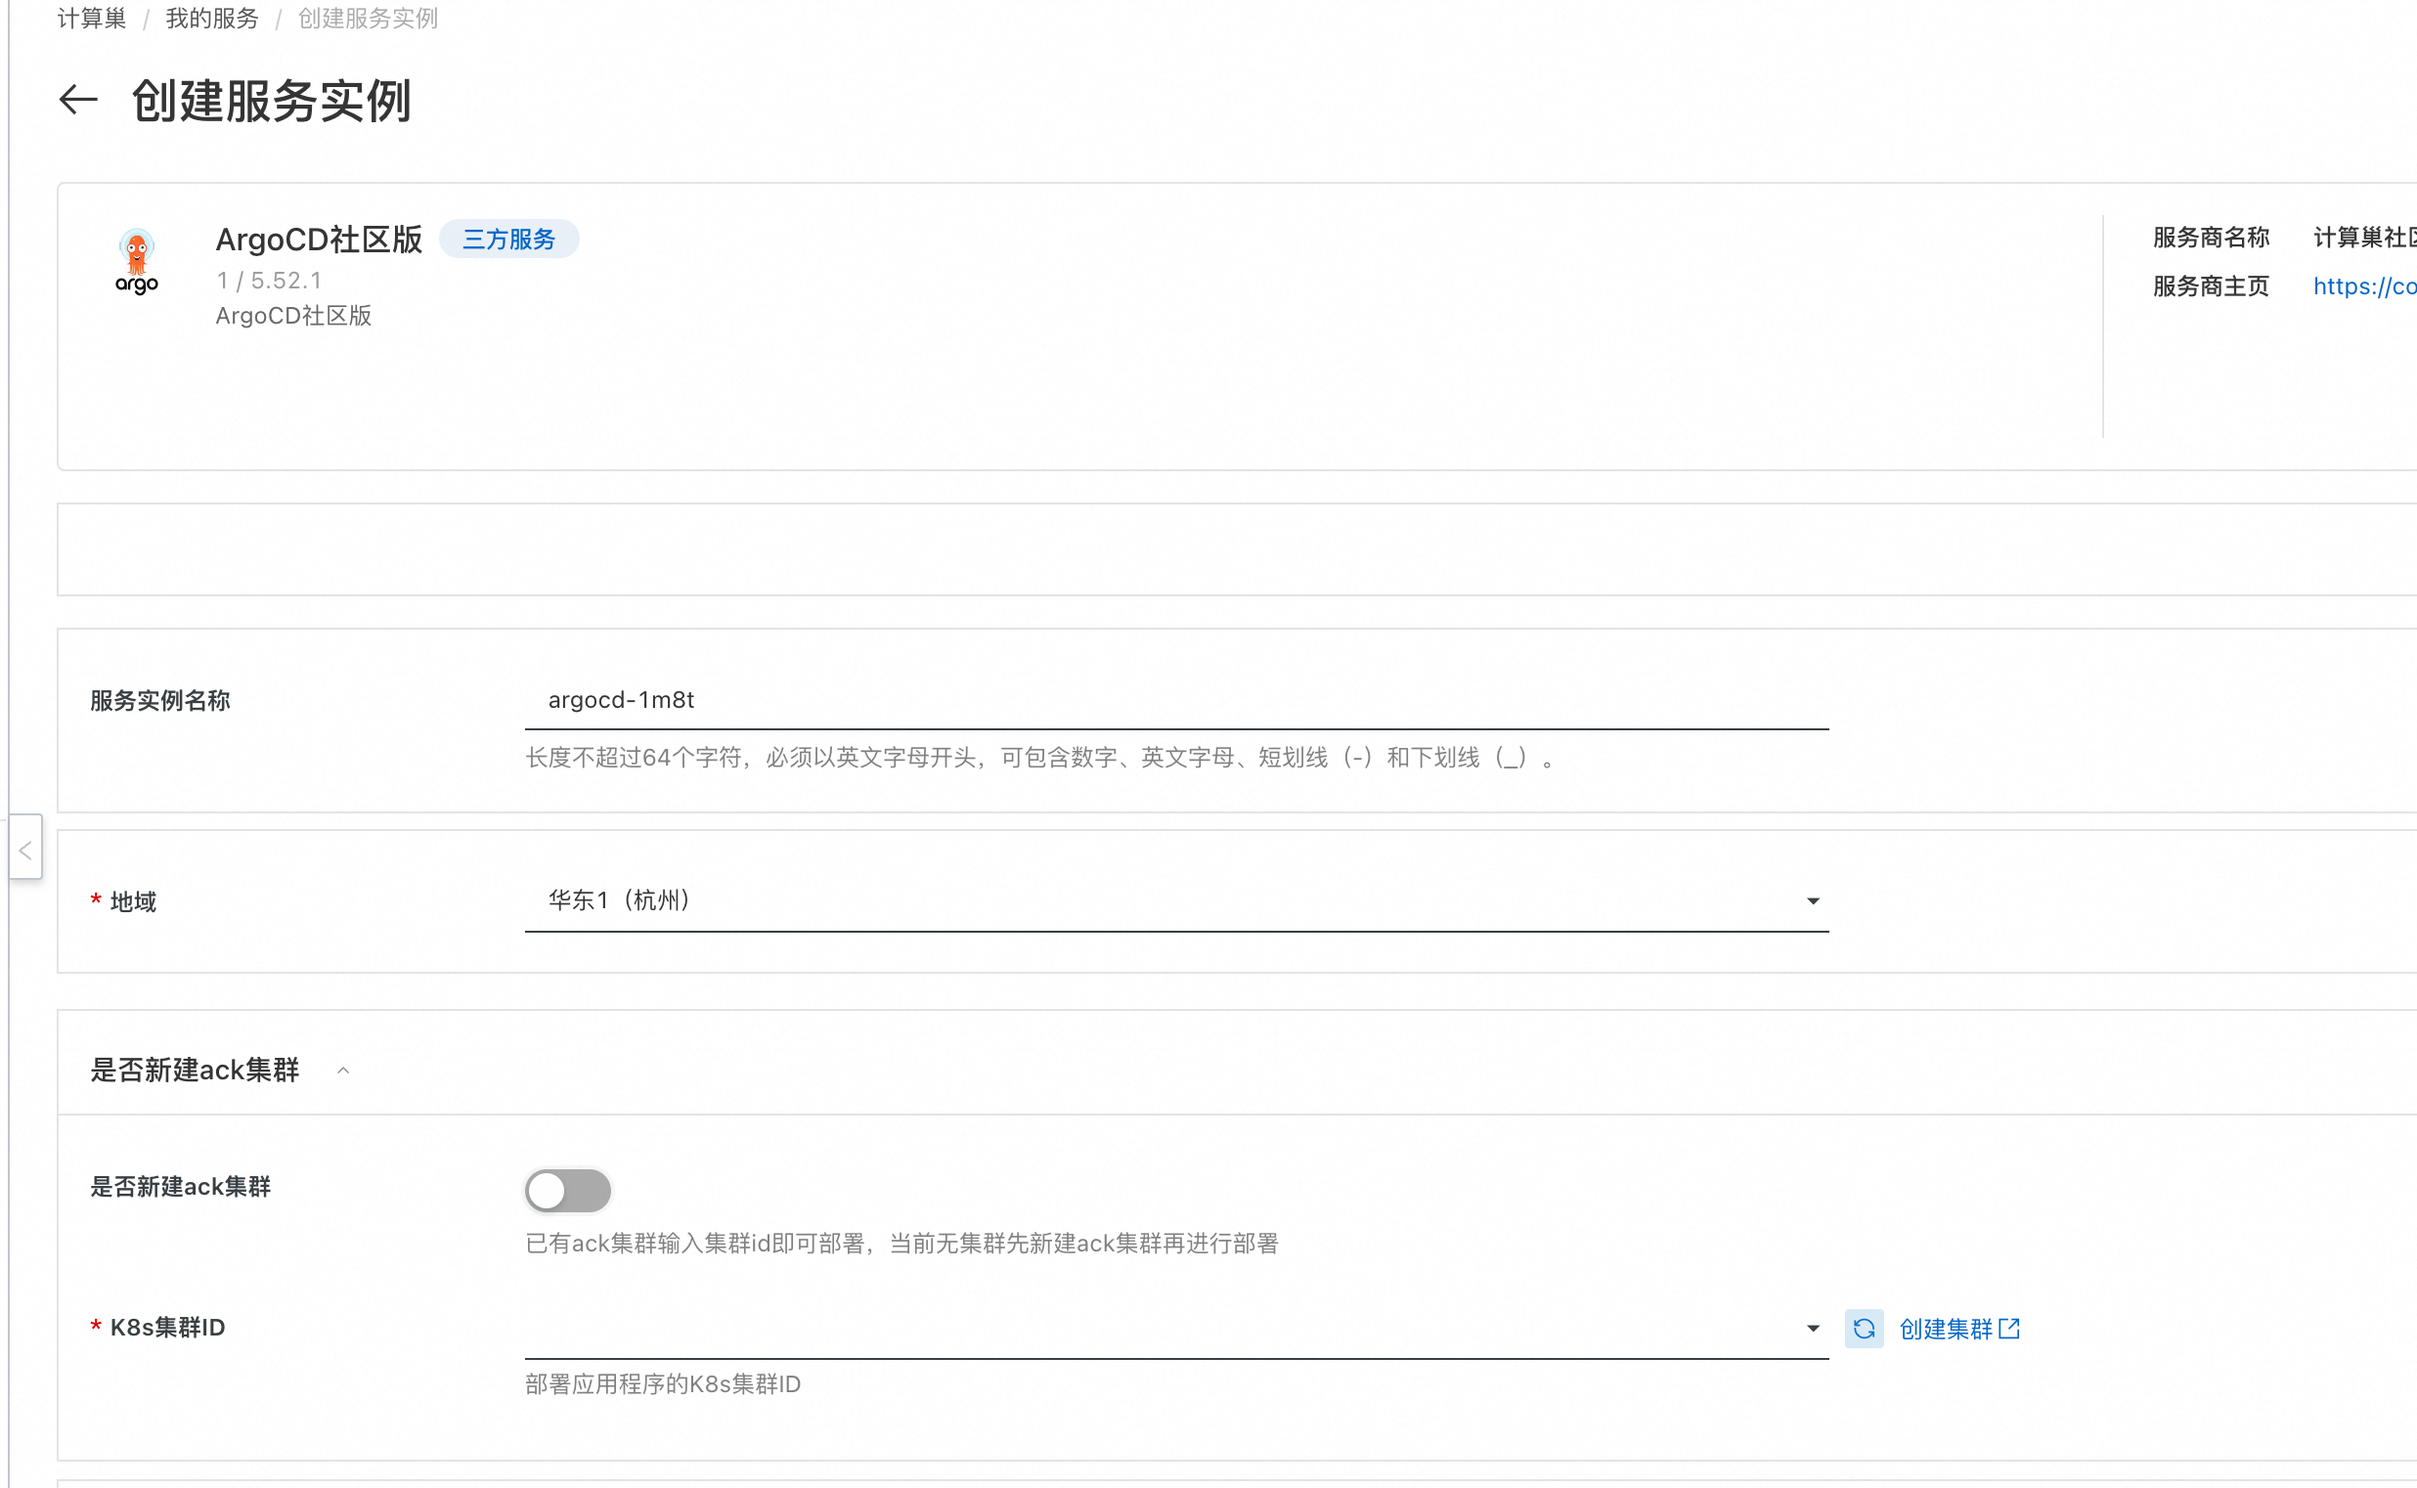
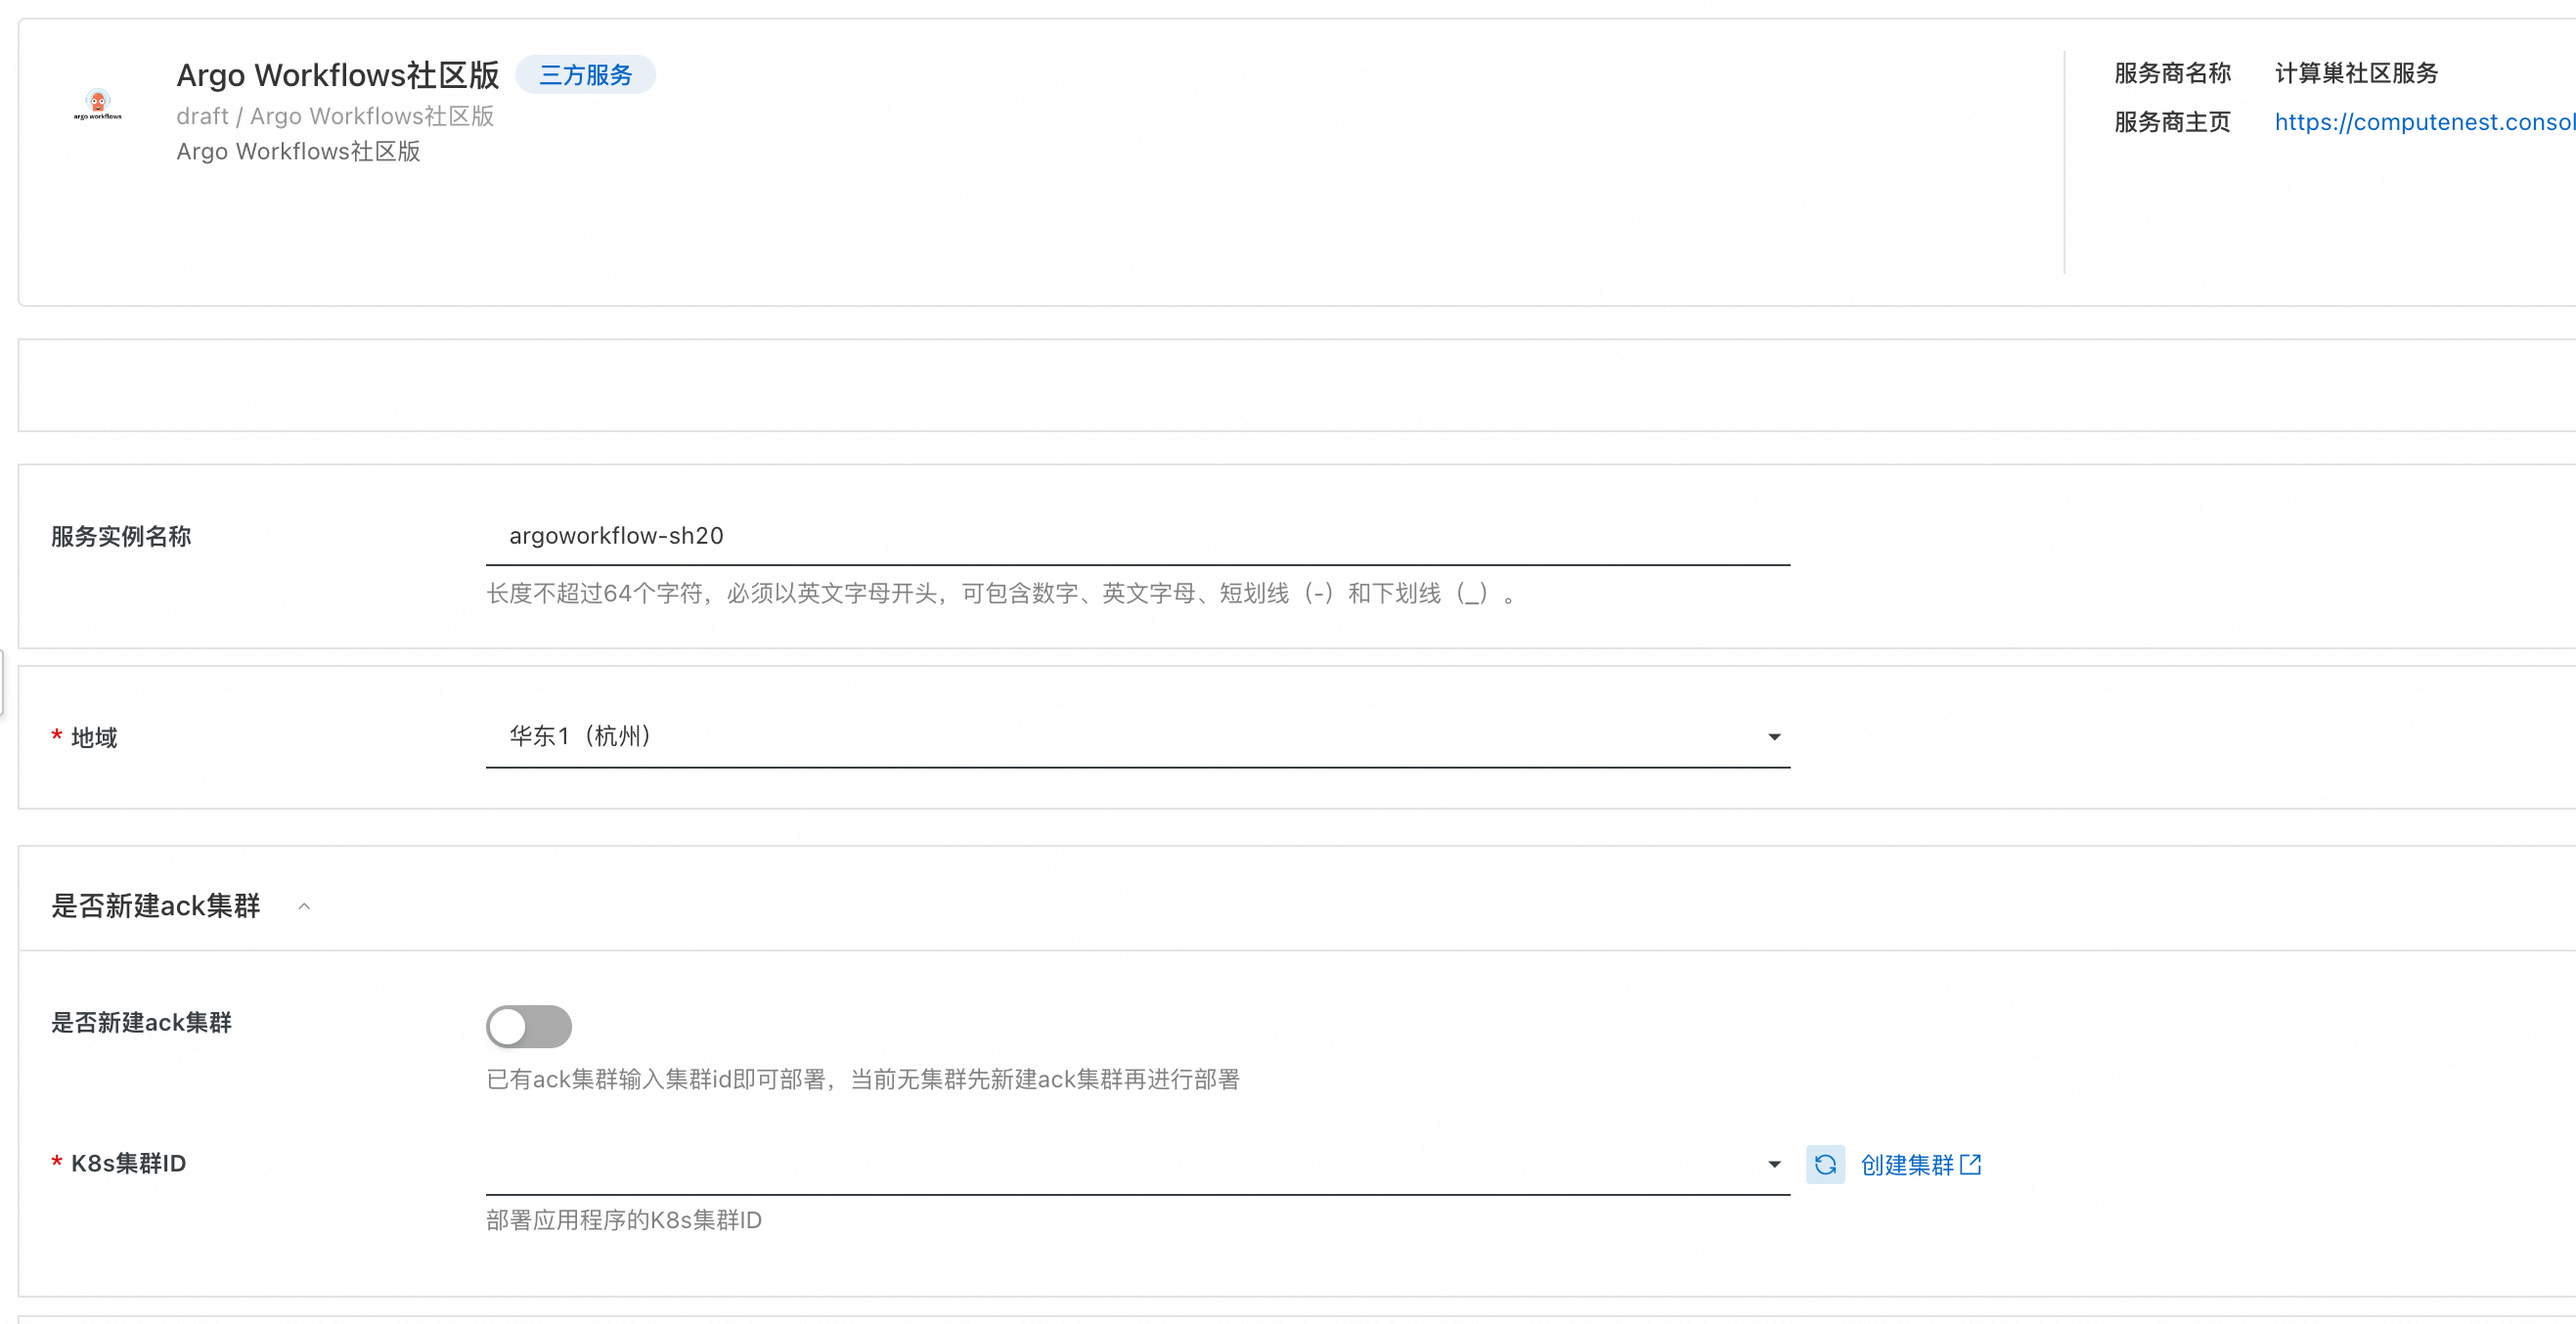
initialize

diff --git a/docs/index.md b/docs/index.md
@@ -64,7 +64,7 @@ Argo Workflows服务需要对ECS、VPC、ACK等资源进行访问和创建操作
 | 是否新建ack集群 | K8s集群ID   | ccde6deb0f612402786e611a7e1230d | 根据地域选择地域中用户已有的集群id           |
 
 ### 部署参数说明
-您在创建服务实例的过程中，需要配置服务实例信息。下文介绍ArgoCD服务实例输入参数的详细信息。
+您在创建服务实例的过程中，需要配置服务实例信息。下文介绍Argo Workflows服务实例输入参数的详细信息。
 #### 已有ack集群
 是否新建ack集群参数选择否时，代表现在已有ack集群，此时需要填写以下参数。
 
@@ -108,7 +108,6 @@ Argo Workflows服务需要对ECS、VPC、ACK等资源进行访问和创建操作
 
 ![detail.png](detail.png)
 
-3.通过实例详情中Endpoint链接，通过返回Admin账号密码，可以访问ArgoCD服务页面，使用对应的功能
+3.通过实例详情中Endpoint链接，通过返回Admin账号密码，可以访问Argo Workflows服务页面，使用对应的功能
 
-![product_1.png](product_1.png)
-![product_2.png](product_2.png)
+![product.png](product.png)
